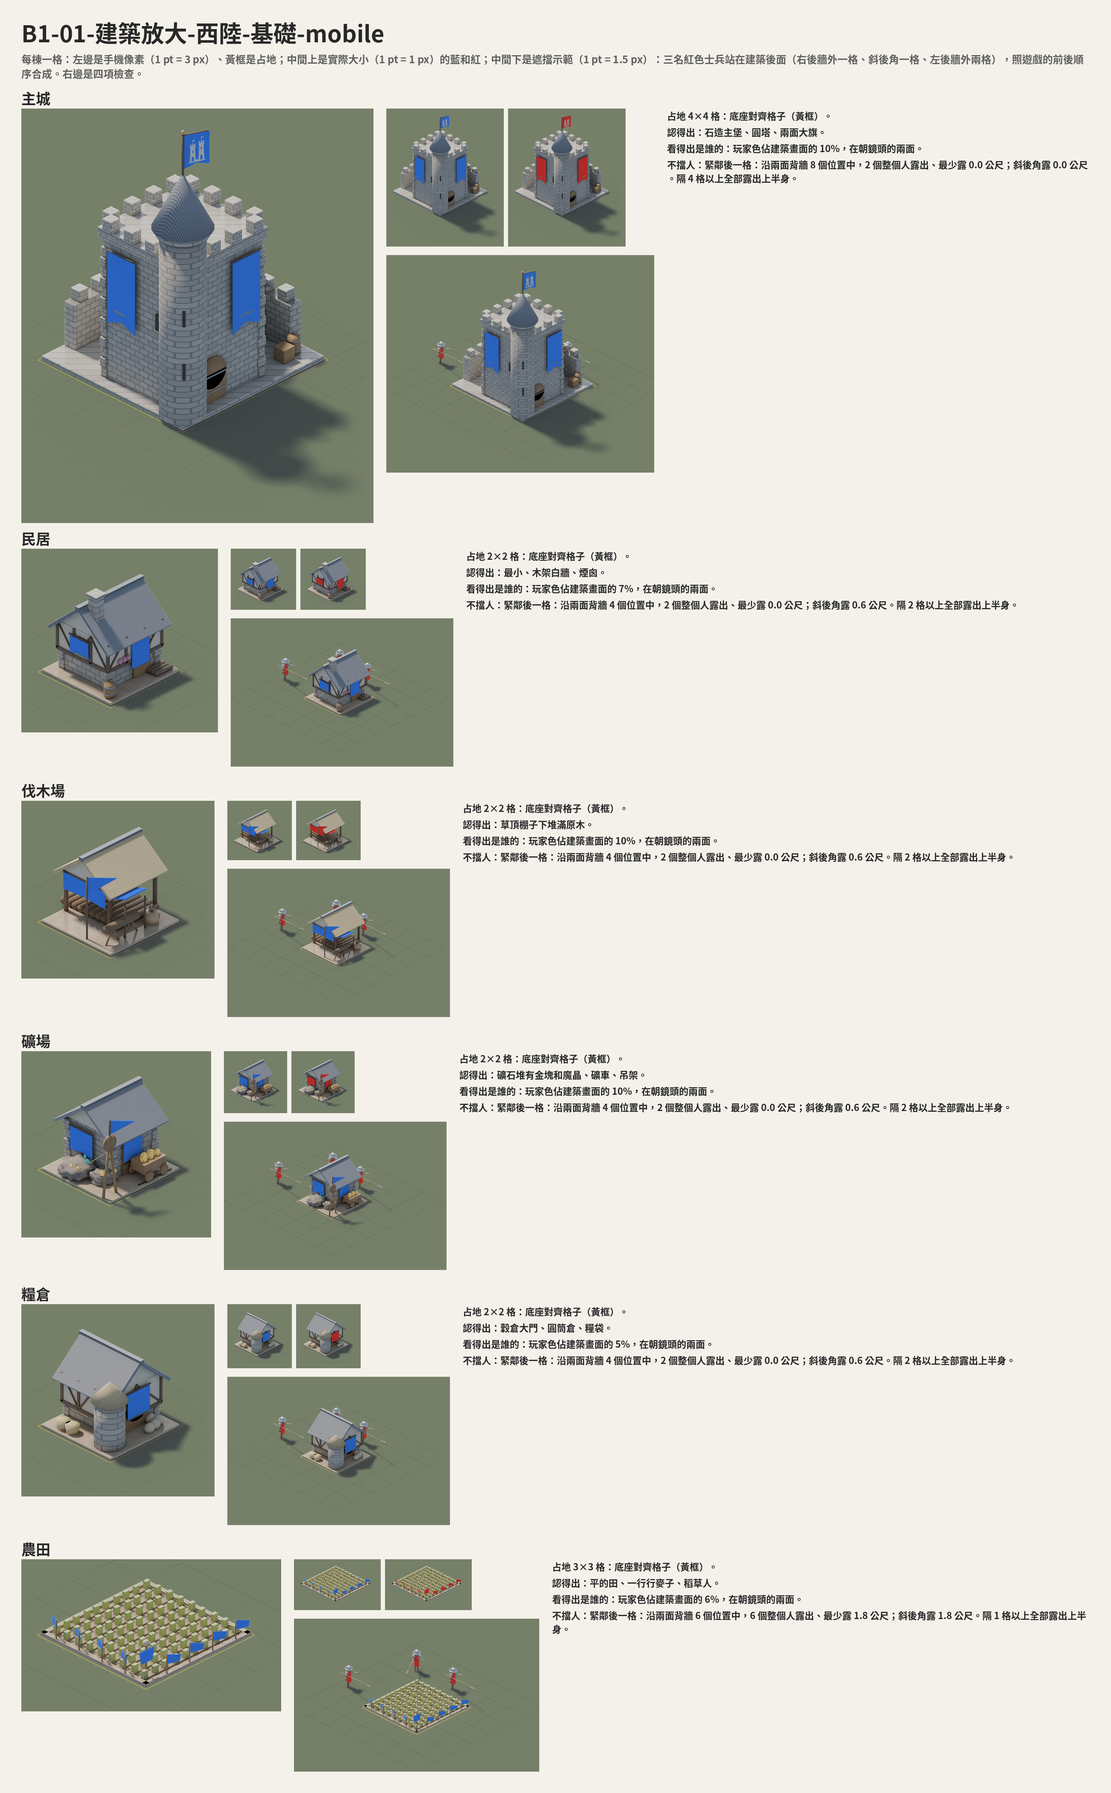
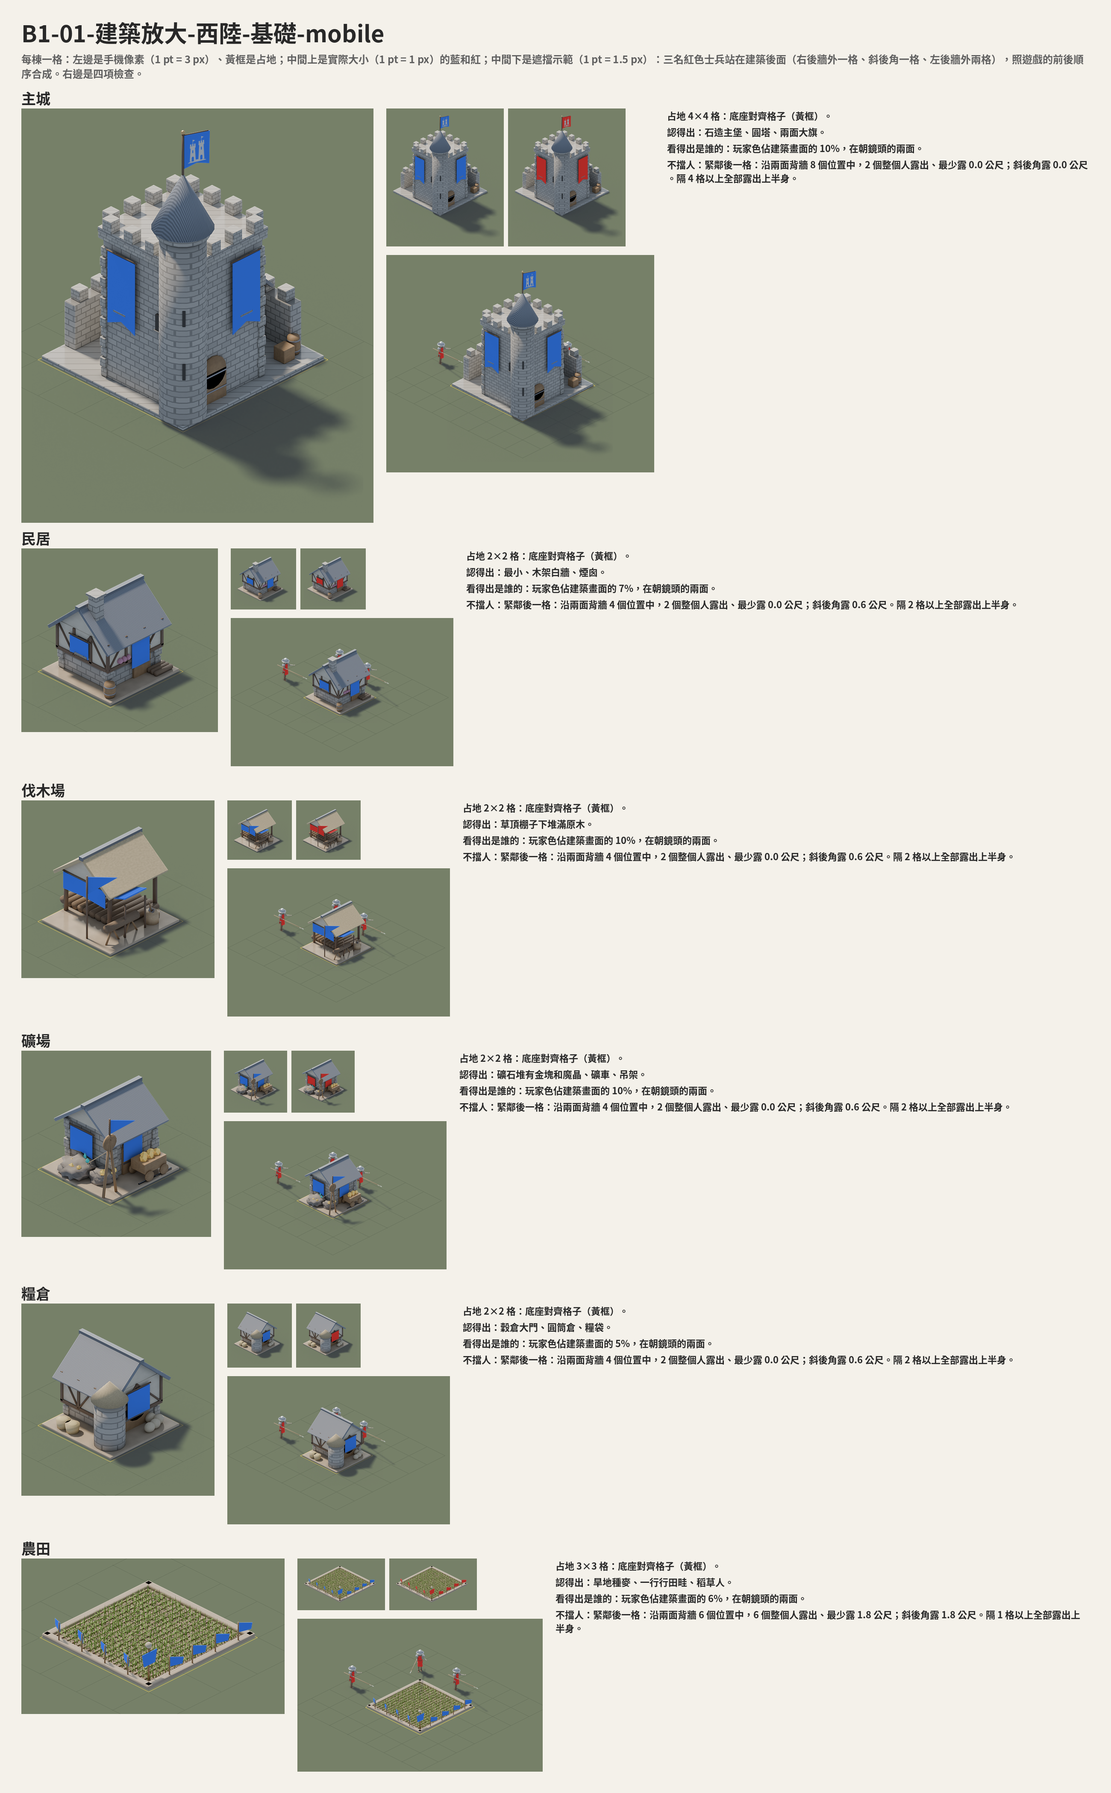
B1 核准：東陸箭樓與稻田麥田換成精修版（總表、放大圖、資源點、記憶體）；README 記使用者選擇、圖的狀態、預警圈交給 client 的做法

diff --git a/design/b1/common/b1art.py b/design/b1/common/b1art.py
@@ -312,18 +312,28 @@ LOOK = {   # what makes each one recognisable at actual size (the second check)
     "lumber_camp": ("草頂棚子下堆滿原木", "草頂棚子下堆滿原木"),
     "mine": ("礦石堆有金塊和魔晶、礦車、吊架", "礦石堆有金塊和魔晶、礦車、吊架"),
     "granary": ("架高的草頂穀倉、糧袋", "穀倉大門、圓筒倉、糧袋"),
-    "farm": ("平的田、一行行作物、稻草人", "平的田、一行行麥子、稻草人"),
+    "farm": ("水田種稻、一叢叢秧苗、稻草人", "旱地種麥、一行行田畦、稻草人"),
     "barracks": ("長屋加練兵場：兵器架、木樁人", "長屋加練兵場：兵器架、木樁人、圓盾"),
     "range": ("一排紅圈靶子", "一排紅圈靶子"),
     "mage_hall": ("三層塔、頂上一簇魔晶", "細高石塔、頂上一大簇魔晶"),
     "stable": ("一排馬房門、圍欄、乾草", "一排馬房門、圍欄、乾草"),
     "workshop": ("做到一半的投石器、吊架", "做到一半的投石器、吊架"),
     "smithy": ("煙囪、爐火、鐵砧", "煙囪、爐火、鐵砧"),
-    "tower": ("木造高望樓", "圓石塔、尖頂"),
+    "tower": ("磚台上的木造高望樓：欄杆、斗拱、鐘鼓、長幡", "圓石塔、尖頂"),
     "walls": ("磚牆、瓦簷、雉堞", "石牆、雉堞"),
     "gate": ("兩座門墩、門樓", "兩座門塔、尖頂"),
     "branch_city": ("台基上的單簷大殿、一面大旗", "方石塔加大屋、旗"),
 }
+
+
+# approved in B1b (the user, 2026-10-02): the refined East tower and the rice / wheat fields replace the first versions
+APPROVED = {("tower", "E"): ("b1b", "tower_fine_E"), ("farm", "E"): ("b1b", "farm_fine_E_growing"),
+            ("farm", "W"): ("b1b", "farm_fine_W_growing")}
+
+
+def piece_ref(kind, c):
+    """(folder, piece name) of the approved render of a building."""
+    return APPROVED.get((kind, c), (_bdir(kind), f"{kind}_{c}"))
 
 
 def bname(kind, c):
@@ -336,8 +346,11 @@ def _bdir(kind):
 
 
 def bpiece(kind, c, suffix, ppm, team="blue", x=0.0, y=0.0, tag=None):
-    name = f"{kind}_{c}" + (f"_{tag}" if tag else "")
-    sp = scene.piece(config.BUILD / "b1" / _bdir(kind), name, suffix, team=team, ppm=ppm, x=x, y=y)
+    if tag is None:
+        folder, name = piece_ref(kind, c)
+    else:
+        folder, name = _bdir(kind), f"{kind}_{c}_{tag}"
+    sp = scene.piece(config.BUILD / "b1" / folder, name, suffix, team=team, ppm=ppm, x=x, y=y)
     sp.ground = kind == "farm"           # walkable and low: drawn with the ground, under the units
     return sp
 
@@ -395,7 +408,7 @@ def team_share(kind, c, suffix):
     if kind in ("walls", "gate"):
         name, d = f"gate_{c}_x", "b101"
     else:
-        name, d = f"{kind}_{c}", _bdir(kind)
+        d, name = piece_ref(kind, c)
     base = config.BUILD / "b1" / d / f"{name}_{suffix}"
     try:
         a = np.asarray(Image.open(f"{base}_beauty.png").getchannel("A")) > 128
@@ -409,9 +422,12 @@ def probe_text(kind, c, suffix):
     import json
     if kind in ("walls", "gate"):
         return "城牆和城門本來就要擋路，不做這項測試。"
-    p = config.BUILD / "b1" / _bdir(kind) / f"{kind}_{c}_probe.json"         # local probe (thin poles ignored)
+    d, name = piece_ref(kind, c)
+    if kind == "farm":
+        d, name = _bdir(kind), f"{kind}_{c}"                 # a field: the first version's probe (crops are lower now)
+    p = config.BUILD / "b1" / d / f"{name}_probe.json"         # local probe (thin poles ignored)
     if not p.exists():
-        p = config.BUILD / "b1" / _bdir(kind) / f"{kind}_{c}_{suffix}.json"
+        p = config.BUILD / "b1" / d / f"{name}_{suffix}.json"
     m = json.loads(p.read_text())
     pr = m.get("probe")
     if not pr:
@@ -662,11 +678,11 @@ def b104(suffix):
     for c in ("E", "W"):
         ims = []
         for st, n in (("sown", "剛種"), ("growing", "長高"), ("ripe", "成熟")):
-            items = [rpiece(f"farm_{c}_{st}", suffix, ppm)]
+            items = [_farm_piece("B", c, st, suffix, ppm)]
             farmer = "farmer_e" if c == "E" else "farmer_w"
             items.append(scene.unit(farmer, "blue", scale=pp * 20 / 60, x=0.6, y=-0.4))
             ims.append(caption(tile(items, pp, footprint=(3, 3)), n))
-        sections.append((f"農田作物・{CULT[c]}（站一名農民：作物不擋人）", ims))
+        sections.append((f"農田作物・{CULT[c]}・{'水田種稻' if c == 'E' else '旱地種麥'}（B1b 精修；站一名農民：作物不擋人）", ims))
     sub = ("資源點和模擬一樣是一格一塊：樹一格一棵；金礦 2×2、野果 3×2、晶脈 2×2，每一格各自採完，採完的那格就可以走，"
            "所以剩下的樣子都很低。樹照東西陸各三種，金礦、野果、晶脈兩邊共用。晶脈是飽和的魔晶青、長在深色岩石上的晶簇，"
            "和淡色半透明的防護罩、橘色的預警圈分得開。最下面是實際大小（1 pt = 1 px）。")
@@ -777,9 +793,12 @@ def overview2(suffix):
     res = []
     for n, t in (("tree_E_v0", "松"), ("tree_E_v2", "樟"), ("tree_W_v0", "橡"), ("tree_W_v1", "冷杉"), ("tree_W_v2", "樺"),
                  ("gold_E_v0_full", "金礦"), ("berry_E_v0_full", "野果"), ("crystal_E_v0_full", "晶脈"),
-                 ("farm_E_ripe", "作物・東"), ("farm_W_ripe", "作物・西")):
+                 ("farm_fine_E_ripe", "稻・東"), ("farm_fine_W_ripe", "麥・西")):
         fp = (3, 3) if n.startswith("farm") else (1, 1)
-        res.append(caption(tile([rpiece(n, suffix, 30)], 1.5, footprint=fp, pad=10), t, 16))
+        sp = (scene.piece(config.BUILD / "b1" / "b1b", n, suffix, ppm=30) if n.startswith("farm")
+              else rpiece(n, suffix, 30))
+        sp.ground = n.startswith("farm")
+        res.append(caption(tile([sp], 1.5, footprint=fp, pad=10), t, 16))
     rows.append(("資源點（1 pt = 1.5 px）", res))
     # B1-05 (units hidden behind buildings) is set aside (the user, 2026-10-02: 「被擋住應該先不用管」)
     lab = 300

diff --git a/design/b1/common/memory_b1.py b/design/b1/common/memory_b1.py
@@ -79,12 +79,14 @@ def total(d):
 
 def run(suffix="x3"):
     done = folder("core3", suffix)
-    done.update(folder("b101", suffix))
+    # the first East tower and the first fields were replaced in B1b (the user, 2026-10-02)
+    done.update(folder("b101", suffix, lambda n: n not in ("tower_E", "farm_E", "farm_W")))
+    done.update(folder("b1b", suffix))                     # tower_fine_E and the rice / wheat fields, 3 stages each
     towns = folder("towns", suffix, lambda n: not n.startswith("tground"))
-    res = folder("b104", suffix, lambda n: not n.startswith("forest"))
+    res = folder("b104", suffix, lambda n: not n.startswith(("forest", "farm")))
     states = folder("states", suffix)
-    rows = {"建築（完成，15 種 × 2 文化，含城牆、城門）": total(done), "城鎮零件（不含地面鋪面）": total(towns),
-            "資源點（含作物三階段）": total(res)}
+    rows = {"建築（完成，15 種 × 2 文化，含城牆、城門；農田含三個階段）": total(done), "城鎮零件（不含地面鋪面）": total(towns),
+            "資源點（樹、金礦、野果、晶脈，含採完的樣子）": total(res)}
     # the states, two ways
     core = ("main_city", "house", "barracks")
     groups = {"施工中 A": ("build_a1", "build_a2", "build_a3"), "施工中 B": ("build_b1", "build_b2", "build_b3"),

diff --git a/design/b1/README.md b/design/b1/README.md
@@ -36,7 +36,7 @@
 - B1-02 的「每棟各自畫」和「共用的疊圖」是製作方式，不讓使用者選；兩種的記憶體都算（見下面）。
 - B1-03 的 A（旗與炊煙）和 B（界樁圍一圈）可以一起用，ceo 問使用者時會多一個「兩個都要」。
 - **玩家色至少 5%**（ceo 2026-10-02）：民居、伐木場、礦場、糧倉、農田、術院、鐵匠鋪原本低於 5%，在朝鏡頭的面加了布幔、長幡、
-  布棚，農田的前緣加一排小旗。重算後 15 種建築東西陸都在 5.3–13.0%（`b1art.team_share`，放大圖上寫的就是這個數字）。
+  布棚，農田的前緣加一排小旗。重算後 15 種建築東西陸（城牆、城門分開算，共 32 項，全部量過）都在 5.3–13.0%（`b1art.team_share`，放大圖上寫的就是這個數字）。
 - **被擋住的單位**：ceo 2026-10-02 一度決定要做（B1-05 出了半透明剪影、輪廓線兩種），使用者看過說「被擋住應該先不用管」，
   已收起來（見「使用者的裁示」）。
 - **城鎮配置**（core 2026-10-02 看過）：擋路的格子不改；大城範圍的中心改到箭樓中心（第三階段寫進模擬）；
@@ -63,9 +63,20 @@
   B1-04 的樹、森林、金礦、野果、晶脈，以及城鎮配置。
 - B1-05 被擋住的單位：收起來，不進這次的 PR；ceo 撤回「要做輪廓」的決定，等正式美術進遊戲、使用者實際看到問題時再說。
   合成程式（`b1art.xray_render`）留著。
-- 1–3 項做成 B1b（見下面），等使用者選。
+- 1–3 項做成 B1b（見下面），使用者 2026-10-02 選定。
 
-## B1b：第二批的三項修改（等使用者選）
+## B1b：第二批的三項修改（使用者 2026-10-02 選定，D-041）
+
+使用者看過總覽和兩個預警圈 GIF 後，用選擇欄位選（都是點選項，沒有另外打字）：
+
+| 項目 | 使用者選的 |
+|---|---|
+| B1b-01 東陸箭樓 | B 精修 |
+| B1b-02 農田作物 | B 精修（東陸水田種稻、西陸旱地種麥） |
+| B1b-03 晶砲預警圈 | B 符文漸強（改掉六芒星之後的版本，commit 3ce4416） |
+
+- 精修的東陸箭樓（`blds2.tower_fine`）和稻田、麥田（`blds2.farm_fine`）取代第一版：建築總表、放大圖、資源點總表、記憶體都已換成精修版。
+- 第一版留在 `blds2.tower`、`blds2.farm`（A 現況的對照圖用），量產時不用。
 
 - **B1b-01 東陸箭樓**（`blds2.tower_fine`）：A 現況、B 精修。精修加了磚砌斜面台基、拱門、木梯、兩圈橫樑與兩層斜撐、
   挑樑、欄杆與欄柱、簷下斗拱、脊獸與寶頂、匾、鼓、銅鐘、燈籠，玩家色在兩條長幡和頂旗。占地一樣 2×2。
@@ -92,22 +103,30 @@
 
 交付分兩批：先給要使用者選的（B1-02、B1-03），再給要使用者核准的（B1-01、B1-04）。
 
-| 檔名 | 內容 |
-|---|---|
-| `B1-02-施工中-A-分三階段-mobile.png` | 地基（木樁和繩子圍出整塊占地）→ 木架加鷹架 → 牆蓋好、屋頂只有椽子 |
-| `B1-02-施工中-B-由下往上-mobile.png` | 蓋好的房子由下往上長出來，外面罩整座鷹架和帆布（30 / 60 / 85%） |
-| `B1-02-受損-A-著火-mobile.png` | 屋頂破洞、火、黑煙、牆被燻黑 |
-| `B1-02-受損-B-不著火-mobile.png` | 掉瓦、裂縫、焦痕、一縷細煙 |
-| `B1-02-被摧毀-A-瓦礫堆-mobile.png` | 一堆低矮的瓦礫、燒黑的樑、餘煙 |
-| `B1-02-被摧毀-B-焦黑地基-mobile.png` | 燒黑的地基和膝蓋高的斷牆、灰燼 |
-| `B1-03-城鎮狀態-A-旗與炊煙-mobile.png` | 小鎮、大城 × 東西陸 × 六種狀態（加大城箭樓已拆），實際大小 |
-| `B1-03-城鎮狀態-B-界樁圍一圈-mobile.png` | 同上，方向 B |
-| `B1-03-城鎮狀態-AB-兩個都要-mobile.png` | A 和 B 一起用（給 ceo 的「兩個都要」選項） |
-| `B1-03-城鎮配置-小鎮.png`、`B1-03-城鎮配置-大城.png` | 俯視格子圖：房子（擋路）、廣場、街道、民兵、駐軍、旗、界樁；旁邊附算圖，紅框是擋路的格子 |
-| `B1-01-建築總表-東陸-mobile.png`、`…-西陸-mobile.png` | 15 種建築：放大、實際大小藍和紅，附士兵和農民 |
-| `B1-01-建築放大-<東陸／西陸>-<基礎／軍事／城防>-mobile.png` | 每棟一格：手機像素、實際大小藍紅、遮擋示範、四項檢查 |
-| `B1-04-資源點總表-mobile.png` | 樹、森林（含邊緣遮擋測試）、金礦、野果、晶脈（和防護罩、預警圈並排）、作物三階段 |
-| `B1-99-總覽對照-*.png` | 每批的總覽 |
+核准的圖就是量產建築、城鎮、資源點的規格；沒選的選項留作對照，不量產。
+
+| 狀態 | 檔名 | 內容 |
+|---|---|---|
+| 核准 | `B1-02-施工中-A-分三階段-mobile.png` | 地基（木樁和繩子圍出整塊占地）→ 木架加鷹架 → 牆蓋好、屋頂只有椽子 |
+| 對照 | `B1-02-施工中-B-由下往上-mobile.png` | 蓋好的房子由下往上長出來，外面罩整座鷹架和帆布（30 / 60 / 85%） |
+| 核准 | `B1-02-受損-A-著火-mobile.png` | 屋頂破洞、火、黑煙、牆被燻黑 |
+| 對照 | `B1-02-受損-B-不著火-mobile.png` | 掉瓦、裂縫、焦痕、一縷細煙 |
+| 核准 | `B1-02-被摧毀-A-瓦礫堆-mobile.png` | 一堆低矮的瓦礫、燒黑的樑、餘煙 |
+| 對照 | `B1-02-被摧毀-B-焦黑地基-mobile.png` | 燒黑的地基和膝蓋高的斷牆、灰燼 |
+| 對照 | `B1-03-城鎮狀態-A-旗與炊煙-mobile.png` | 小鎮、大城 × 東西陸 × 六種狀態（加大城箭樓已拆），實際大小 |
+| 核准 | `B1-03-城鎮狀態-B-界樁圍一圈-mobile.png` | 同上，方向 B：城鎮範圍的圓上一圈界樁 |
+| 對照 | `B1-03-城鎮狀態-AB-兩個都要-mobile.png` | A 和 B 一起用 |
+| 核准 | `B1-03-城鎮配置-小鎮.png`、`B1-03-城鎮配置-大城.png` | 俯視格子圖：房子（擋路）、廣場、街道、民兵、駐軍、旗、界樁；旁邊附算圖，紅框是擋路的格子（core 2026-10-02 看過） |
+| 核准 | `B1-01-建築總表-東陸-mobile.png`、`…-西陸-mobile.png` | 15 種建築（東陸箭樓、農田是 B1b 精修版）：放大、實際大小藍和紅，附士兵和農民 |
+| 核准 | `B1-01-建築放大-<東陸／西陸>-<基礎／軍事／城防>-mobile.png` | 每棟一格：手機像素、實際大小藍紅、遮擋示範、四項檢查 |
+| 核准 | `B1-04-資源點總表-mobile.png` | 樹、森林（含邊緣遮擋測試）、金礦、野果、晶脈、稻田與麥田三階段 |
+| 對照 | `B1b-01-東陸箭樓-A-現況-mobile.png` | 第一版東陸箭樓 |
+| 核准 | `B1b-01-東陸箭樓-B-精修-mobile.png` | 精修的東陸箭樓 |
+| 對照 | `B1b-02-農田作物-A-現況-mobile.png` | 第一版農田（一格格方塊） |
+| 核准 | `B1b-02-農田作物-B-精修-mobile.png` | 稻田、麥田三階段 |
+| 對照 | `B1b-03-晶砲預警圈-A-收束圈-mobile.png`、`…-動作.gif` | 亮環往中心收 |
+| 核准 | `B1b-03-晶砲預警圈-B-符文漸強-mobile.png`、`…-動作.gif` | 晶紋法陣慢慢轉、越來越亮 |
+| — | `B1-99-總覽對照-選擇題.png`、`B1-99-總覽對照-核准題.png`、`B1b-99-總覽對照.png` | 每批的總覽 |
 
 ## 怎麼做的
 
@@ -181,6 +200,31 @@ python3 common/memory_b1.py x3
    - 每棟各自畫：每棟建築多幾張圖（施工中 3 張、受損 1 張、被摧毀 1 張）；
    - 共用疊圖：施工中用完成圖由下往上裁切加共用鷹架（依占地大小）；受損用共用的煙、火、裂縫疊圖；被摧毀用依占地大小、分東西陸的共用殘骸。
 
+## 給 client：晶砲預警圈 B（建議做法，等 client 確認）
+
+使用者選了 B 符文漸強。它會轉、會變亮，建議不出 30 格的圖，由 client 用幾張靜態的圖組起來：
+
+1. **需要的圖**（ui 量產時出，3 倍和 2 倍各一套，俯視、正圓，畫在方形的圖裡）：
+   - `warn_sigil`：法陣的線（雙圈、六個晶形記號、兩層六邊形、三條對角線、中心小六邊形），橘紅色 #FF7026，透明背景。
+   - `warn_sigil_glow`：同一個法陣模糊後的光暈，金色 #FFD682。
+   - `warn_fill`：填滿整圈的柔和圓盤，邊緣稍微淡出，橘紅色。
+   - `warn_rim`：外圈下面那道深色線（#6E1A08），讓圈在淺色鋪面上也看得清楚。
+   - `warn_core`：中心的金白光團（最後 0.25 秒用）。
+   - 大小照半徑 1.5 格（3 公尺）畫；client 依 sim 給的半徑縮放。
+2. **client 怎麼組**（PixiJS）：
+   - 一個 container 放在預警圈的中心，`scale.y = 0.5`，把正圓壓成地面的橢圓（鏡頭仰角 30°）。
+   - 法陣兩張圖放在 container 裡面，每秒轉 20 度（`rotation` 加在子物件上，壓扁的是外層，所以轉起來仍貼著地面）。
+   - 只用透明度調亮度（sprite 的 tint 不能變亮）：
+     - 校準的進度 k = 1 − ticksLeft / 30（0 → 1）；經過的秒數 t = k × 1.5。
+     - 脈動 pulse = 0.5 + 0.5 × cos(2π × (3t + 2t²))：每秒 3 下加快到 9 下。
+     - `warn_fill` 透明度 = (0.12 + 0.35k) × (0.75 + 0.25 × pulse)。
+     - `warn_sigil` 透明度 = min(1, (0.45 + 0.55k) × (0.8 + 0.2 × pulse))。
+     - `warn_sigil_glow` 透明度 = 0.6 × k × (0.8 + 0.2 × pulse)（法陣由橘轉金的感覺）。
+     - `warn_core`：最後 5 個 tick，大小從半徑的 25% 長到 75%，透明度 0.5 → 0.9。
+   - 畫在地面層之上、單位之下；遊戲速度和暫停照 sim 的時間走。
+3. **好處**：五張靜態圖，3 倍未壓縮合計約 2 MB 以內（一張 400×400 左右），遠小於 30 格整圈的圖；半徑不同的預警圈也能共用。
+4. 設計稿的合成（`common/warn.py` 的 `frame_b`）就是照這個算法畫的，client 照著做，畫面會和核准的 GIF 一樣。
+
 ## 貼圖記憶體
 
 `common/memory_b1.py`：用正式圖量（和兵種的後處理同一套）：每張修邊（alpha > 4）、玩家色層修到自己的範圍、
@@ -188,24 +232,25 @@ python3 common/memory_b1.py x3
 
 | | 3 倍未壓縮 | 2 倍 ASTC 4×4 |
 |---|---|---|
-| 建築（完成，15 種 × 2 文化，含城牆、城門） | 39.9 MB | 4.4 MB |
+| 建築（完成，15 種 × 2 文化，含城牆、城門；農田含三個階段） | 44.0 MB | 4.9 MB |
 | 城鎮零件（不含地面鋪面） | 25.7 MB | 2.9 MB |
-| 資源點（含作物三階段） | 7.3 MB | 0.8 MB |
-| **小計（不含狀態）** | **73.0 MB** | **8.1 MB** |
+| 資源點（樹、金礦、野果、晶脈，含採完的樣子） | 1.6 MB | 0.2 MB |
+| **小計（不含狀態）** | **71.4 MB** | **7.9 MB** |
 
 狀態（全部 15 種建築，兩種製作方式；ceo 2026-10-02 選共用疊圖）：
 
 | | 每棟各自畫：3 倍 / 2 倍 ASTC | 共用疊圖：3 倍 / 2 倍 ASTC |
 |---|---|---|
-| 施工中 A | 99.4 / 11.0 MB | 25.6 / 2.8 MB |
-| 施工中 B | 133.1 / 14.8 MB | 34.3 / 3.8 MB |
-| 受損 A | 39.9 / 4.4 MB | 10.3 / 1.1 MB |
-| 受損 B | 39.9 / 4.4 MB | 10.3 / 1.1 MB |
-| 被摧毀 A | 17.2 / 1.9 MB | 4.4 / 0.5 MB |
-| 被摧毀 B | 17.8 / 2.0 MB | 4.6 / 0.5 MB |
+| 施工中 A | 109.7 / 12.2 MB | 25.6 / 2.8 MB |
+| 施工中 B | 147.0 / 16.3 MB | 34.3 / 3.8 MB |
+| 受損 A | 44.1 / 4.9 MB | 10.3 / 1.1 MB |
+| 受損 B | 44.1 / 4.9 MB | 10.3 / 1.1 MB |
+| 被摧毀 A | 19.0 / 2.1 MB | 4.4 / 0.5 MB |
+| 被摧毀 B | 19.7 / 2.2 MB | 4.6 / 0.5 MB |
 
 - R1 的估計是 3 倍 82 MB、2 倍 ASTC 9 MB（13 種建築 × 2 文化 × 3 種狀態，加城鎮）。
 - 城鎮的廣場與街道鋪面不算在內（由 B2 的地形負責）。
+- 東陸箭樓、農田是核准的精修版；農田三個階段都算在建築裡。晶砲預警圈約 2 MB 另計。
 - 狀態只算了主城、民居、兵營三棟，全部 15 種用兩種方式估：
   - 每棟各自畫：三棟的「狀態圖面積 ÷ 完成圖面積」× 全部完成圖面積。
   - 共用疊圖：每種占地大小（2×2、3×3、4×4）、每個文化一套，用三棟的狀態圖面積當上限（實際的疊圖只有鷹架、煙火、殘骸，會更小）。

diff --git a/design/b1/worklog.md b/design/b1/worklog.md
@@ -1,0 +1,8 @@
+# B1 工作紀錄
+
+- 2026-10-01：ceo 同意計畫（占地工作值、量化回報擋人、小建築壓低、地標以好認為先、敵我只靠玩家色）。
+- 2026-10-02：建模與算圖（CI runs 36890058846、36891051286、36896282965、36903353944、36905820278、36906560779）；
+  自檢修正火色、破洞、被摧毀 B 挖空、瓦礫燻黑、箭樓瓦礫；第一批、第二批交 ceo。
+- 2026-10-02：ceo 要求玩家色 ≥5%（11 項加大，run 36917973276）、B1-05、小鎮民兵對角線對稱、攻城器械寬度（霹靂車 1.46 m、投石機 1.68 m）。
+- 2026-10-02：使用者選第一批（施工中 A、受損 A、被摧毀 A、城鎮 B），第二批打字回四點；B1b 東陸箭樓、稻田麥田（run 36962075861）、
+  晶砲預警圈 A／B；ceo 要求預警圈 B 去掉六芒星（3ce4416）；使用者選 B1b 全部 B。B1-05 收起。
